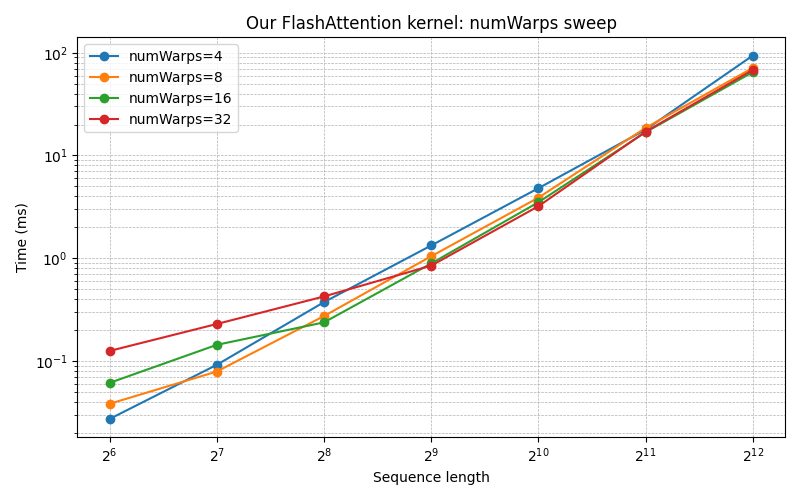
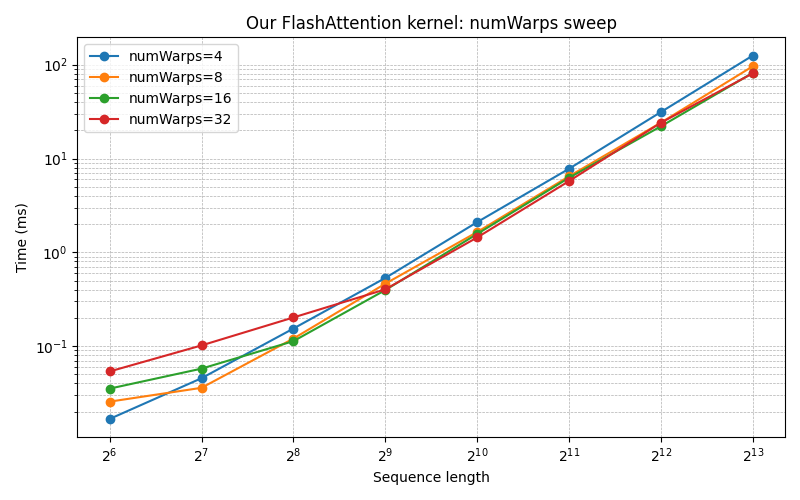
FP16 flash_attn, proper bench
Switch FlashAttention to FP16, use half2 for loads and matmul, and increase benchmark iterations when running with the -bench flag.

diff --git a/src/test_perf.py b/src/test_perf.py
@@ -6,6 +6,8 @@ import torch
 from attention import MultiHeadAttentionBlock
 from flash_attn.flash_attn_interface import flash_attn_func
 
+IS_BENCH = "-bench" in sys.argv
+
 # cuda_build folder path
 current_dir = os.path.dirname(os.path.abspath(__file__))
 cuda_build_dir = os.path.join(current_dir, 'cuda', 'cuda_build')
@@ -21,14 +23,15 @@ batch_size = 1
 d_model = 64
 num_heads = 1
 head_dim = d_model // num_heads
-seq_lens = [64, 128, 256, 512, 1024, 2048, 4096]
+seq_lens = [64, 128, 256, 512, 1024, 2048, 4096, 8192]
 ''''''
 mask = None
 
 attentionBlock = MultiHeadAttentionBlock(d_model, num_heads, dropout=0.0).cuda().float()
 
 results = []
-num_iters = 100
+num_iters = 1000 if IS_BENCH else 30
+num_warms = 100 if IS_BENCH else 5
 # numWarps sweep (powers of two, starting from 4)
 num_warps_list = [4, 8, 16, 32]
 our_kernel_sweep_results = []  # (seq_len, num_warps, time_ms)
@@ -48,38 +51,35 @@ for seq_len in seq_lens:
                           dtype=torch.int32, device='cuda')
 
     # our kernel: [batch, heads, seq_len, d_k]
-    q_cuda = query.view(batch_size, seq_len, num_heads, head_dim).transpose(1, 2).contiguous()
-    k_cuda = key.view(batch_size, seq_len, num_heads, head_dim).transpose(1, 2).contiguous()
-    v_cuda = value.view(batch_size, seq_len, num_heads, head_dim).transpose(1, 2).contiguous()
+    q_cuda = query.view(batch_size, seq_len, num_heads, head_dim).transpose(1, 2).contiguous().half()
+    k_cuda = key.view(batch_size, seq_len, num_heads, head_dim).transpose(1, 2).contiguous().half()
+    v_cuda = value.view(batch_size, seq_len, num_heads, head_dim).transpose(1, 2).contiguous().half()
     
     # size check
     print(f"q_cuda shape: {q_cuda.shape}")  # need to be (batch, num_heads, seq_len, head_dim)
     
     # our kernel check
     try:
-        output = forward(q_cuda, k_cuda, v_cuda, scale=1.0, num_warps=32)
+        output = forward(q_cuda, k_cuda, v_cuda, scale=1.0, num_warps=16 if not IS_BENCH else 32)
         print(f"Output contains nan: {torch.isnan(output).any()}")
         print(f"Output contains inf: {torch.isinf(output).any()}")
     except Exception as e:
         print(f"Error during forward call: {e}")
 
     def torch_reference_attention(q, k, v, scale=1.0):
-        batch, heads, seq_len, d_k = q.shape
-        
-        # QK^T
-        scores = torch.matmul(q, k.transpose(-2, -1)) / math.sqrt(d_k)
-        
-        # Softmax
-        attn = torch.softmax(scores, dim=-1)
-        
-        # Attention * V
-        output = torch.matmul(attn, v)
-        
-        return output
+        qf = q.float()
+        kf = k.float()
+        vf = v.float()
 
-    output_cuda = forward(q_cuda, k_cuda, v_cuda, scale=1.0, num_warps=32)
+        batch, heads, seq_len, d_k = qf.shape
+        scores = torch.matmul(qf, kf.transpose(-2, -1)) / math.sqrt(d_k)
+        attn = torch.softmax(scores, dim=-1)
+        output = torch.matmul(attn, vf)
+        return output.half()
+
+    output_cuda = forward(q_cuda, k_cuda, v_cuda, scale=1.0, num_warps=16 if not IS_BENCH else 32)
     output_ref = torch_reference_attention(q_cuda, k_cuda, v_cuda)
-    diff = (output_cuda - output_ref).abs()
+    diff = (output_cuda.float() - output_ref.float()).abs()
     print(f"Max diff: {diff.max().item():.9f}")
     
     startCore = torch.cuda.Event(enable_timing=True)
@@ -92,7 +92,7 @@ for seq_len in seq_lens:
     endOurCuda = torch.cuda.Event(enable_timing=True)
 
     # GPU warm up
-    for _ in range(5):
+    for _ in range(num_warms):
         with torch.no_grad():
             attentionBlock.forward(query, key, value, mask)
     torch.cuda.synchronize()
@@ -122,14 +122,14 @@ for seq_len in seq_lens:
     # in C++ wrapper: actual_scale = scale / sqrtf(d_k)
     
     # warm-up
-    for _ in range(5):
+    for _ in range(num_warms):
         with torch.no_grad():
-            forward(q_cuda, k_cuda, v_cuda, scale=1.0, num_warps=32)
+            forward(q_cuda, k_cuda, v_cuda, scale=1.0, num_warps=16 if not IS_BENCH else 32)
     torch.cuda.synchronize()
     
     startOurCuda.record()
     for _ in range(num_iters):
-        forward(q_cuda, k_cuda, v_cuda, scale=1.0, num_warps=32)
+        forward(q_cuda, k_cuda, v_cuda, scale=1.0, num_warps=16 if not IS_BENCH else 32)
     endOurCuda.record()
     torch.cuda.synchronize()
 
@@ -148,42 +148,44 @@ for seq_len in seq_lens:
 
     results.append((seq_len, coreAvgTimeMs, fullAvgTimeMs, flashAvgTimeMs, our_cuda_time))
 
-    for nw in num_warps_list:
-        # warm-up
-        for _ in range(5):
-            with torch.no_grad():
+    if IS_BENCH:
+        for nw in num_warps_list:
+            # warm-up
+            for _ in range(num_warms):
+                with torch.no_grad():
+                    forward(q_cuda, k_cuda, v_cuda, scale=1.0, num_warps=nw)
+            torch.cuda.synchronize()
+
+            start = torch.cuda.Event(enable_timing=True)
+            end = torch.cuda.Event(enable_timing=True)
+
+            start.record()
+            for _ in range(num_iters):
                 forward(q_cuda, k_cuda, v_cuda, scale=1.0, num_warps=nw)
-        torch.cuda.synchronize()
+            end.record()
+            torch.cuda.synchronize()
 
-        start = torch.cuda.Event(enable_timing=True)
-        end = torch.cuda.Event(enable_timing=True)
-
-        start.record()
-        for _ in range(num_iters):
-            forward(q_cuda, k_cuda, v_cuda, scale=1.0, num_warps=nw)
-        end.record()
-        torch.cuda.synchronize()
-
-        avg_ms = start.elapsed_time(end) / num_iters
-        our_kernel_sweep_results.append((seq_len, nw, avg_ms))
+            avg_ms = start.elapsed_time(end) / num_iters
+            our_kernel_sweep_results.append((seq_len, nw, avg_ms))
 
 # saving results
-import csv
+if IS_BENCH:
+    import csv
 
-benchmarks_dir = os.path.join(current_dir, 'benchmarks')
-os.makedirs(benchmarks_dir, exist_ok=True)
+    benchmarks_dir = os.path.join(current_dir, 'benchmarks')
+    os.makedirs(benchmarks_dir, exist_ok=True)
 
-csv_path = os.path.join(benchmarks_dir, 'attention_benchmark.csv')
-with open(csv_path, "w", newline="") as f:
-    writer = csv.writer(f)
-    writer.writerow(["seq_len", "core_ms", "full_ms", "flash_ms", "our_cuda_ms"])
-    writer.writerows(results)
-print(f"results saved to {csv_path}")
+    csv_path = os.path.join(benchmarks_dir, 'attention_benchmark.csv')
+    with open(csv_path, "w", newline="") as f:
+        writer = csv.writer(f)
+        writer.writerow(["seq_len", "core_ms", "full_ms", "flash_ms", "our_cuda_ms"])
+        writer.writerows(results)
+    print(f"results saved to {csv_path}")
 
-csv_path_sweep = os.path.join(benchmarks_dir, 'our_kernel_numwarps_sweep.csv')
-with open(csv_path_sweep, "w", newline="") as f:
-    writer = csv.writer(f)
-    writer.writerow(["seq_len", "num_warps", "time_ms"])
-    writer.writerows(our_kernel_sweep_results)
+    csv_path_sweep = os.path.join(benchmarks_dir, 'our_kernel_numwarps_sweep.csv')
+    with open(csv_path_sweep, "w", newline="") as f:
+        writer = csv.writer(f)
+        writer.writerow(["seq_len", "num_warps", "time_ms"])
+        writer.writerows(our_kernel_sweep_results)
 
-print(f"numWarps sweep results saved to {csv_path_sweep}")
+    print(f"numWarps sweep results saved to {csv_path_sweep}")

diff --git a/src/cuda/flash_attention.cpp b/src/cuda/flash_attention.cpp
@@ -1,8 +1,9 @@
 #include <torch/extension.h>
 #include <ATen/cuda/CUDAContext.h>
+#include <cuda_fp16.h>
 
 extern "C" void flash_attention_launcher(
-    const float* Q, const float* K, const float* V, float* O,
+    const __half* Q, const __half* K, const __half* V, __half* O,
     int batch_size, int num_heads, int seq_len, int d_k,
     float scale, int num_warps);
 
@@ -23,7 +24,7 @@ torch::Tensor flash_attention_forward(
     TORCH_CHECK(query.size(1) == value.size(1), "Head count mismatch");
     TORCH_CHECK(query.size(3) == value.size(3), "Head dimension mismatch");
     
-    TORCH_CHECK(query.dtype() == torch::kFloat32, "Only float32 supported for this FlashAttention");
+    TORCH_CHECK(query.dtype() == torch::kFloat16, "Only float16 supported for this FlashAttention");
     
     auto sizes = query.sizes();
     int batch_size = sizes[0];
@@ -40,7 +41,7 @@ torch::Tensor flash_attention_forward(
     auto output = torch::empty(
         {batch_size * num_heads * seq_len, d_k}, 
         torch::TensorOptions()
-            .dtype(torch::kFloat32)
+            .dtype(torch::kFloat16)
             .device(torch::kCUDA)
             .requires_grad(false));
     
@@ -49,10 +50,10 @@ torch::Tensor flash_attention_forward(
     
     // Launch kernel with reshaped tensors
     flash_attention_launcher(
-        query_flat.data_ptr<float>(),
-        key_flat.data_ptr<float>(),
-        value_flat.data_ptr<float>(),
-        output.data_ptr<float>(),
+        reinterpret_cast<const __half*>(query_flat.data_ptr<at::Half>()),
+        reinterpret_cast<const __half*>(key_flat.data_ptr<at::Half>()),
+        reinterpret_cast<const __half*>(value_flat.data_ptr<at::Half>()),
+        reinterpret_cast<__half*>(output.data_ptr<at::Half>()),
         batch_size, num_heads, seq_len, d_k,
         actual_scale,
         num_warps
